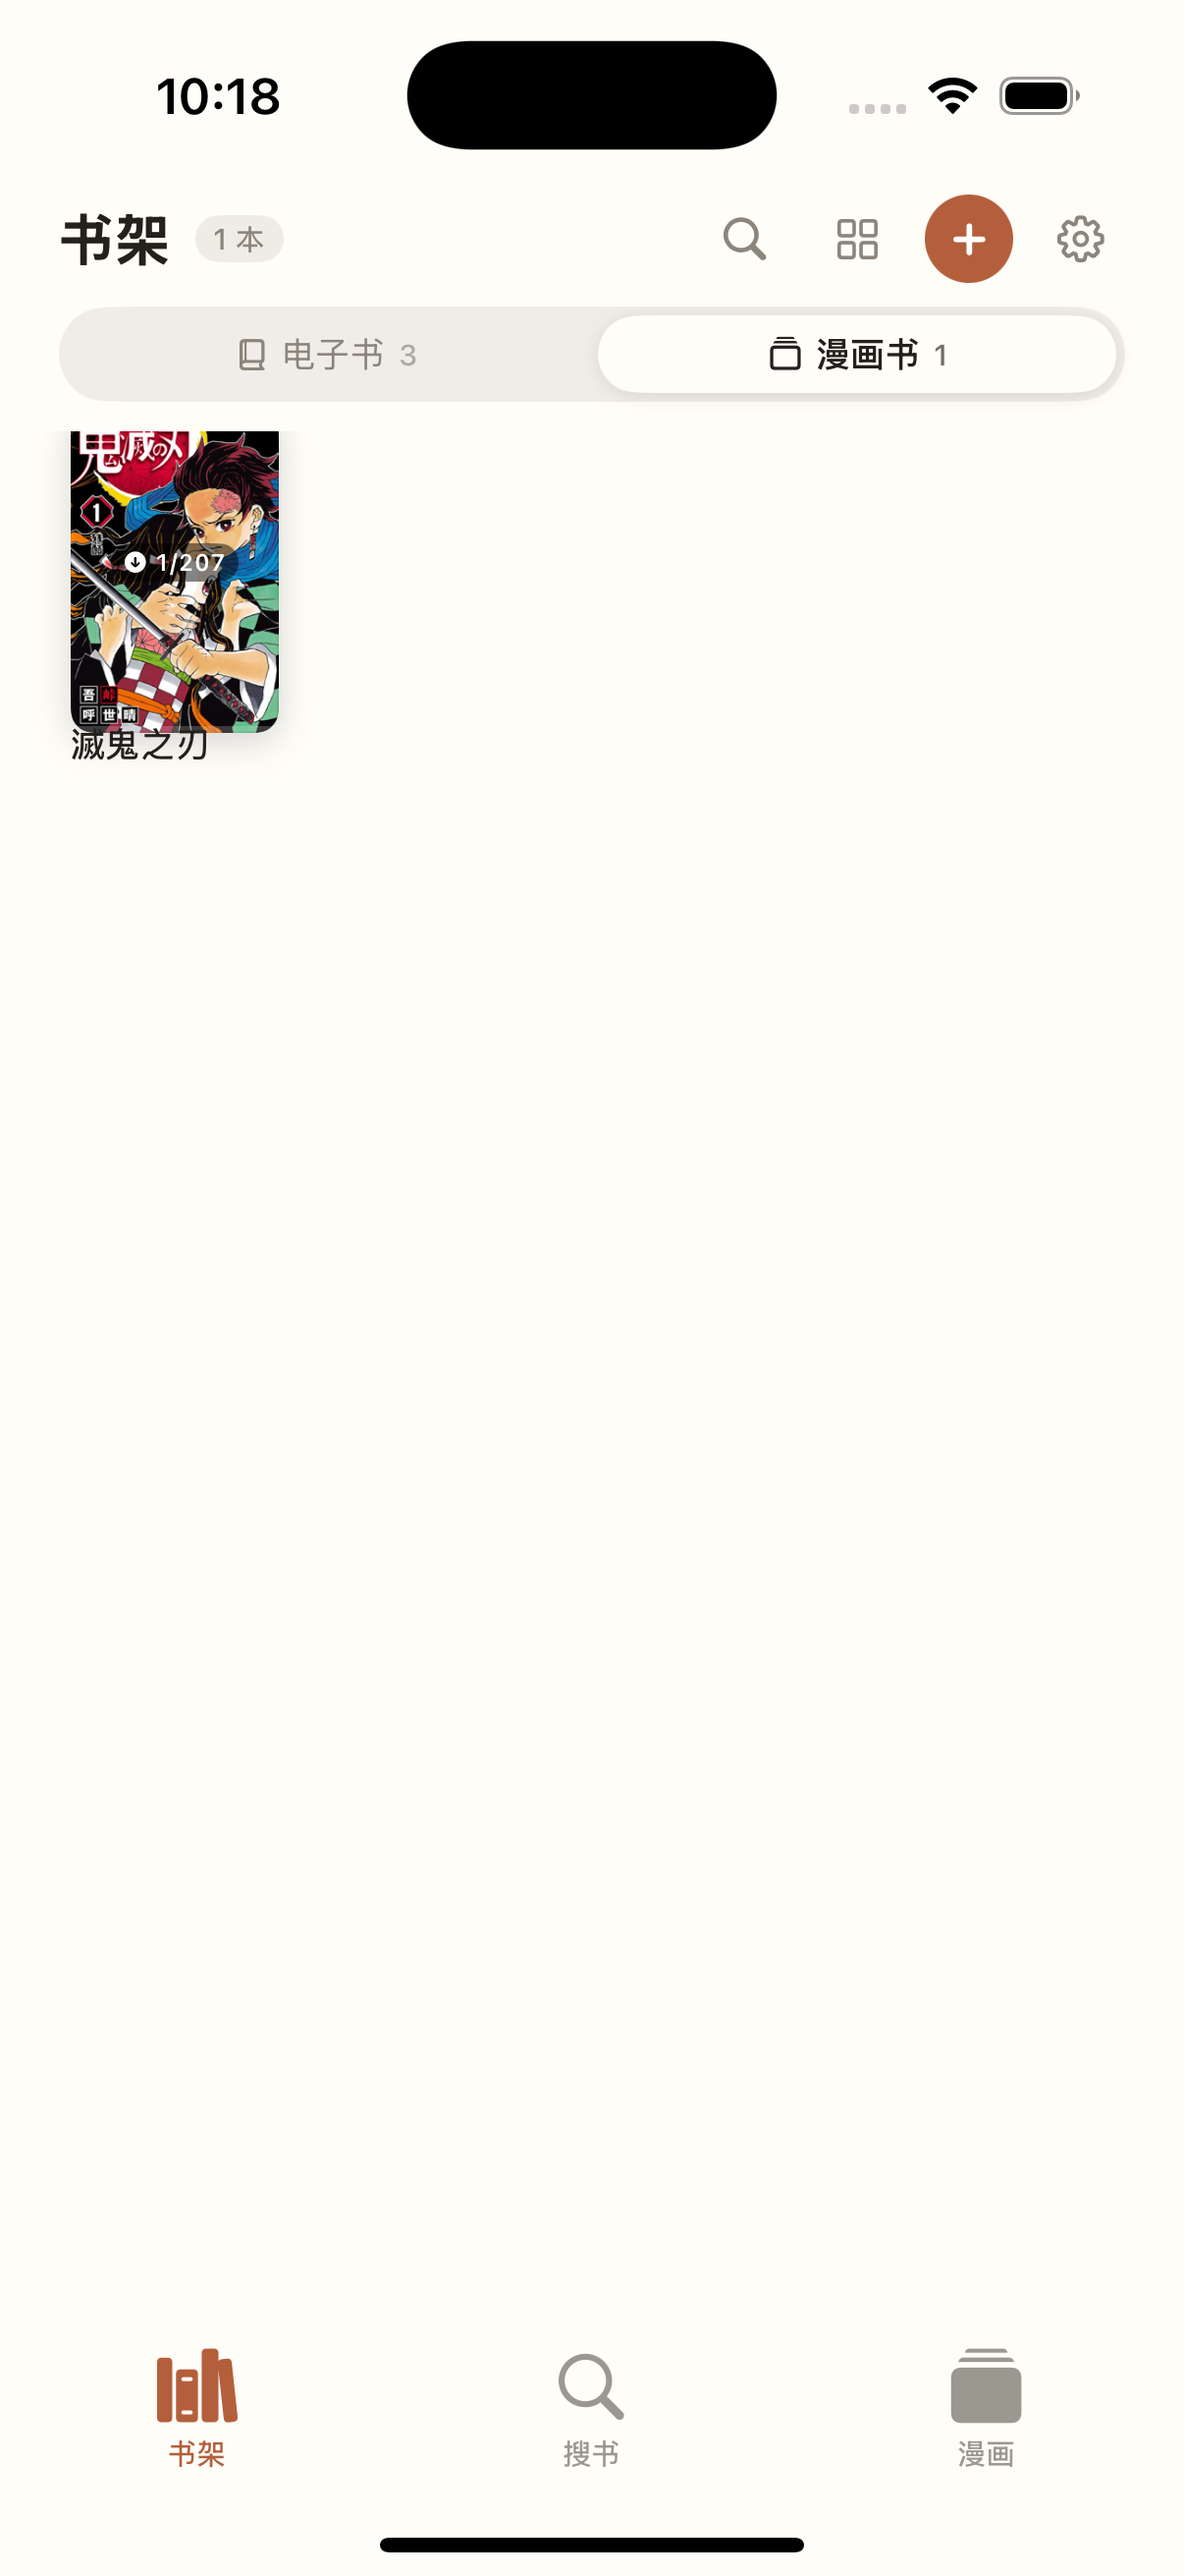
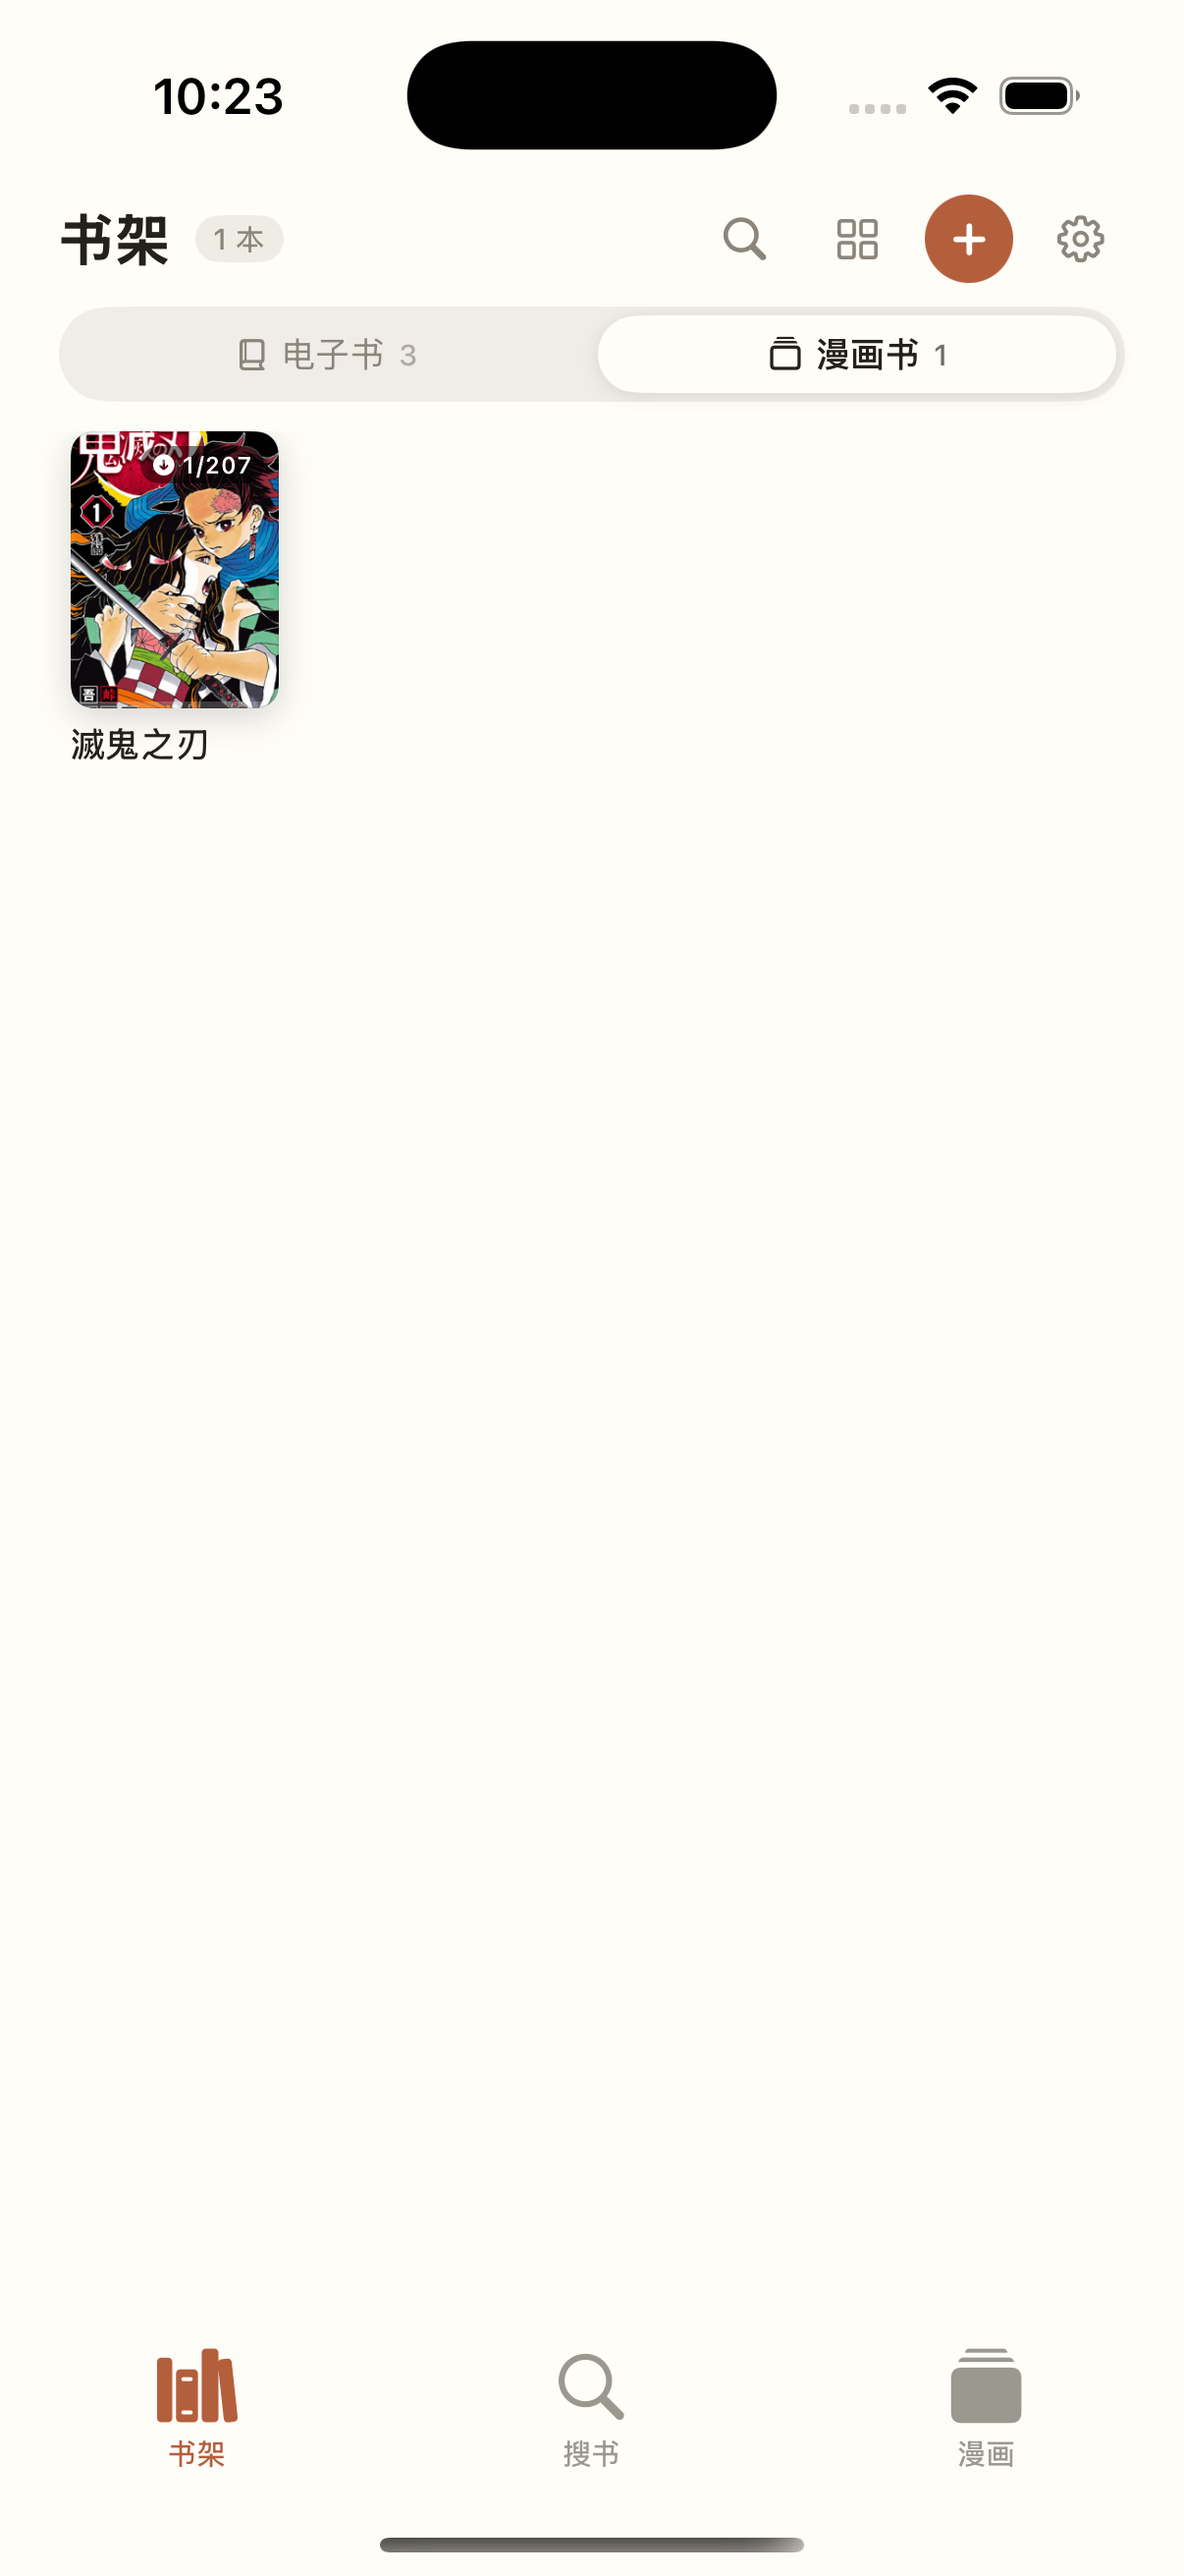
漫画封面角标移到右上角并修裁切；截图换成最终版

Changed region(s): [[0.3375, 0.9577, 0.675, 1.0], [0.0614, 0.1545, 0.2454, 0.3089], [0.1227, 0.0309, 0.2454, 0.0618]]

diff --git a/iRead/Views/BookshelfView.swift b/iRead/Views/BookshelfView.swift
@@ -907,9 +907,15 @@ private struct ComicShelfCover: View {
             )
 
             if let image {
-                Image(uiImage: image)
-                    .resizable()
-                    .scaledToFill()
+                // 必须显式约束到容器尺寸：`scaledToFill` 会把 ZStack 撑得比卡片大，
+                // 外层 clipShape 一裁，角落上的角标就跟着被切掉一半。
+                GeometryReader { geo in
+                    Image(uiImage: image)
+                        .resizable()
+                        .scaledToFill()
+                        .frame(width: geo.size.width, height: geo.size.height)
+                        .clipped()
+                }
             } else {
                 VStack(spacing: 3) {
                     Image(systemName: "rectangle.stack")
@@ -929,35 +935,28 @@ private struct ComicShelfCover: View {
 
             if showsBadges {
                 VStack {
-                    HStack(alignment: .top, spacing: 4) {
+                    HStack(alignment: .top, spacing: 3) {
                         if book.isPinned { cornerBadge(systemName: "pin.fill", rotation: -25) }
                         Spacer(minLength: 0)
+                        // 已缓存话数：下过才显示。放右上角和「已读」勾同排，
+                        // 不和封面底部的书名抢位置
+                        if let cacheCount, cacheCount.have > 0 {
+                            HStack(spacing: 1.5) {
+                                Image(systemName: "arrow.down.circle.fill")
+                                    .font(.system(size: 7, weight: .bold))
+                                Text("\(cacheCount.have)/\(cacheCount.total)")
+                                    .font(.system(size: 8, weight: .semibold).monospacedDigit())
+                            }
+                            .foregroundStyle(.white)
+                            .padding(.horizontal, 3.5)
+                            .padding(.vertical, 1.5)
+                            .background(Capsule().fill(Color.black.opacity(0.5)))
+                        }
                         if book.isFinished { cornerBadge(systemName: "checkmark", rotation: 0) }
                     }
                     Spacer(minLength: 0)
-                    // 已缓存话数：下过才显示。没下过的书封面就是空白占位，一眼能分辨
                 }
                 .padding(5)
-
-                if let cacheCount, cacheCount.have > 0 {
-                    VStack {
-                        Spacer(minLength: 0)
-                        HStack(spacing: 2) {
-                            Image(systemName: "arrow.down.circle.fill")
-                                .font(.system(size: 7, weight: .bold))
-                            Text("\(cacheCount.have)/\(cacheCount.total)")
-                                .font(.system(size: 8, weight: .semibold).monospacedDigit())
-                        }
-                        .foregroundStyle(.white)
-                        .padding(.horizontal, 4)
-                        .padding(.vertical, 1.5)
-                        .background(Capsule().fill(Color.black.opacity(0.48)))
-                        .frame(maxWidth: .infinity, alignment: .leading)
-                    }
-                    .padding(.horizontal, 5)
-                    // 让开底部那条阅读进度线
-                    .padding(.bottom, 6)
-                }
             }
 
             // 阅读进度：贴底细线，和文字书保持一致
